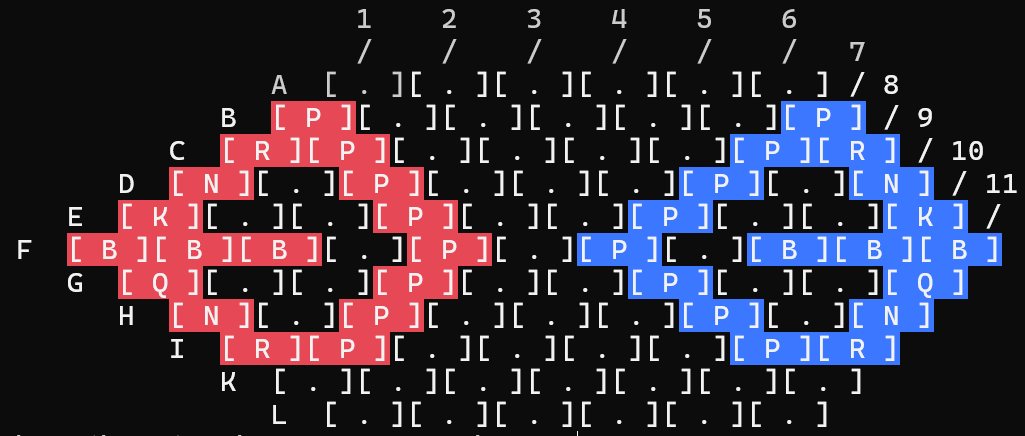
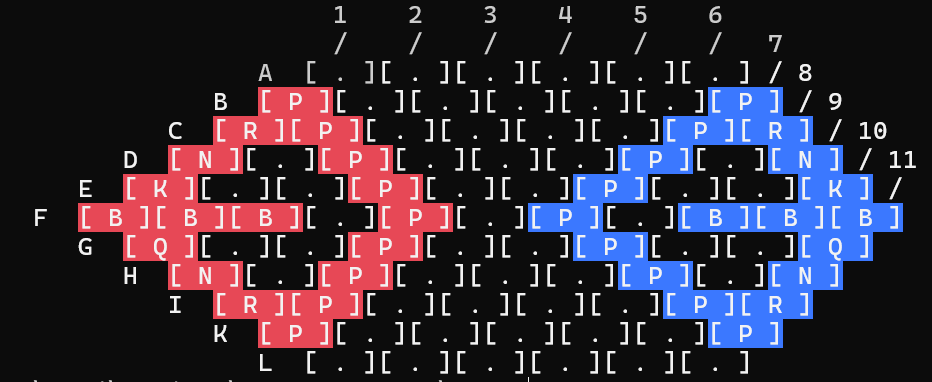
bugfixing

diff --git a/src/game.rs b/src/game.rs
@@ -99,17 +99,6 @@ impl Piece {
     }
 }
 
-fn to_human_coordinates((y, x): InternalCooridates) -> Result<HumanCoordinates> {
-    let mut code = y + 65;
-
-    if code >= 74 {
-        // skip J (74)
-        code += 1;
-    }
-    let c = char::from(u8::try_from(code)?);
-
-    Ok((c, x + 1))
-}
 
 pub fn get_startup_pieces_black() -> Result<Vec<Piece>> {
     let color = Color::Black;
@@ -171,6 +160,18 @@ pub fn get_startup_pieces_white() -> Result<Vec<Piece>> {
     Ok(pieces)
 }
 
+fn to_human_coordinates((y, x): InternalCooridates) -> Result<HumanCoordinates> {
+    let mut code = y + 65;
+
+    if code >= 74 {
+        // skip J (74)
+        code += 1;
+    }
+    let c = char::from(u8::try_from(code)?);
+
+    Ok((c, x + 1))
+}
+
 fn to_internal_coordinates((y, x): HumanCoordinates) -> Result<InternalCooridates> {
     // TODO: Check if coordinates are on board.
 
@@ -188,8 +189,8 @@ fn to_internal_coordinates((y, x): HumanCoordinates) -> Result<InternalCooridate
         bail!("First item of position must be between 'a' and 'l'")
     }
 
-    if y >= 106 {
-        y += 1; // skip J (74)
+    if y > 106 {
+        y -= 1; // skip J
     }
 
     y -= 97;
@@ -208,5 +209,14 @@ mod tests {
 
         let human = to_human_coordinates((10, 5)).unwrap();
         assert_eq!(human, ('L', 6));
+    }
+
+    #[test]
+    fn to_internal_skips_j() {
+        let internal = to_internal_coordinates(('K', 1)).unwrap();
+        assert_eq!(internal, (9, 0));
+
+        let internal = to_internal_coordinates(('L', 1)).unwrap();
+        assert_eq!(internal, (10, 0));
     }
 }

diff --git a/readme.md b/readme.md
@@ -22,6 +22,6 @@ As a first step the game will be rendered in the terminal. It is easier to displ
         G  [ Q ][ . ][ . ][ P ][ . ][ . ][ P ][ . ][ . ][ Q ]
            H  [ N ][ . ][ P ][ . ][ . ][ . ][ P ][ . ][ N ]
               I  [ R ][ P ][ . ][ . ][ . ][ . ][ P ][ R ]
-                 K  [ . ][ . ][ . ][ . ][ . ][ . ][ . ]
+                 K  [ P ][ . ][ . ][ . ][ . ][ . ][ P ]
                     L  [ . ][ . ][ . ][ . ][ . ][ . ]
 ```